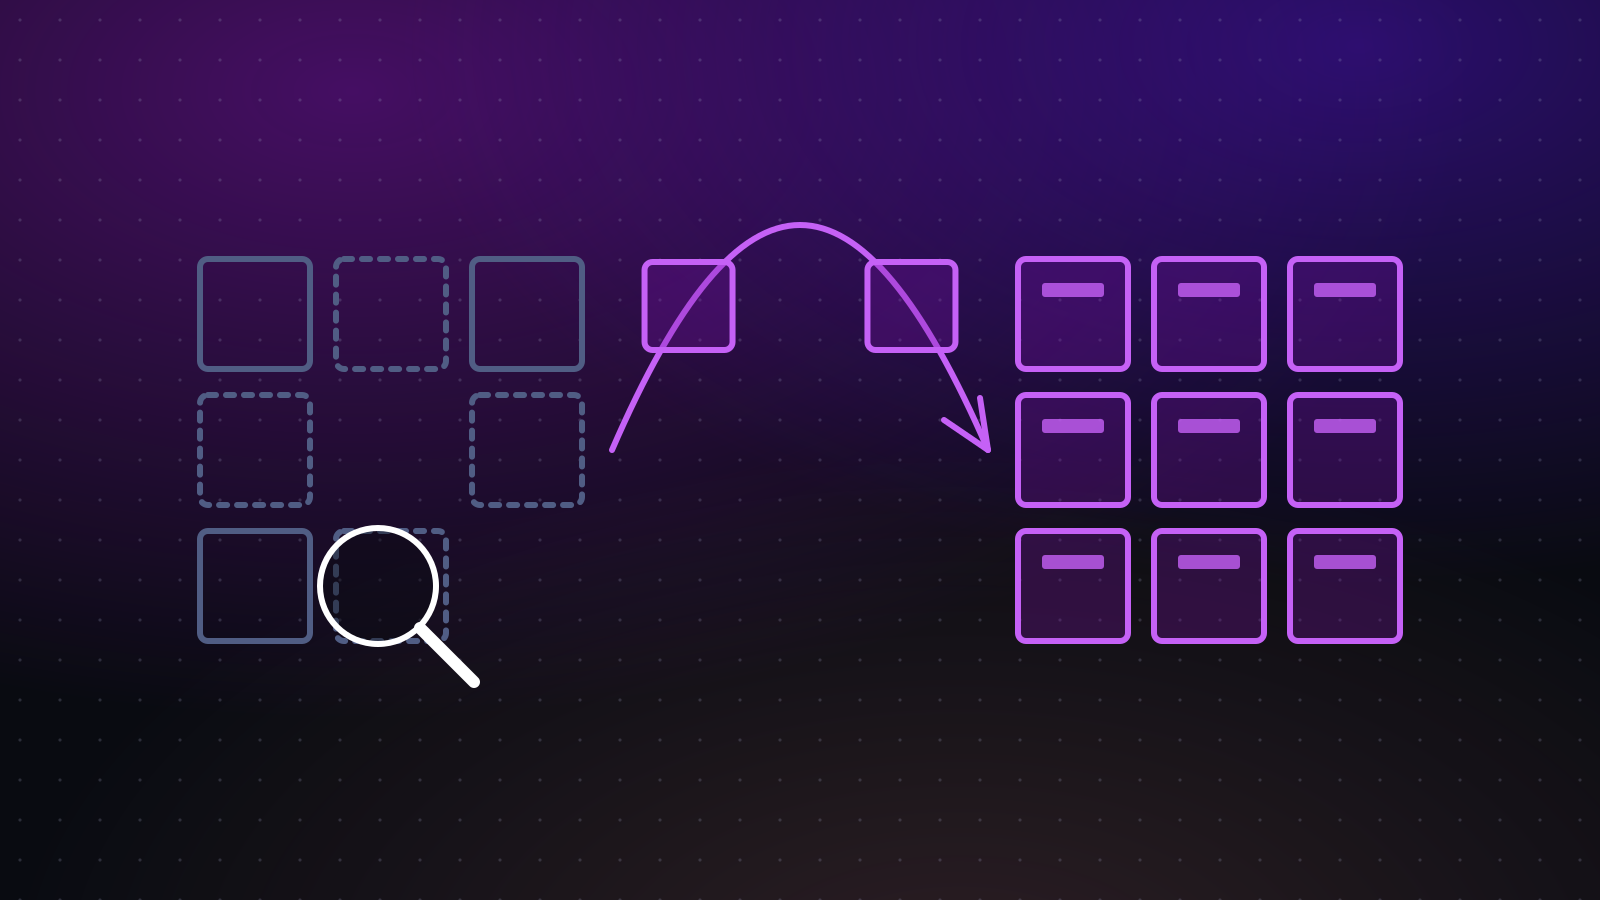
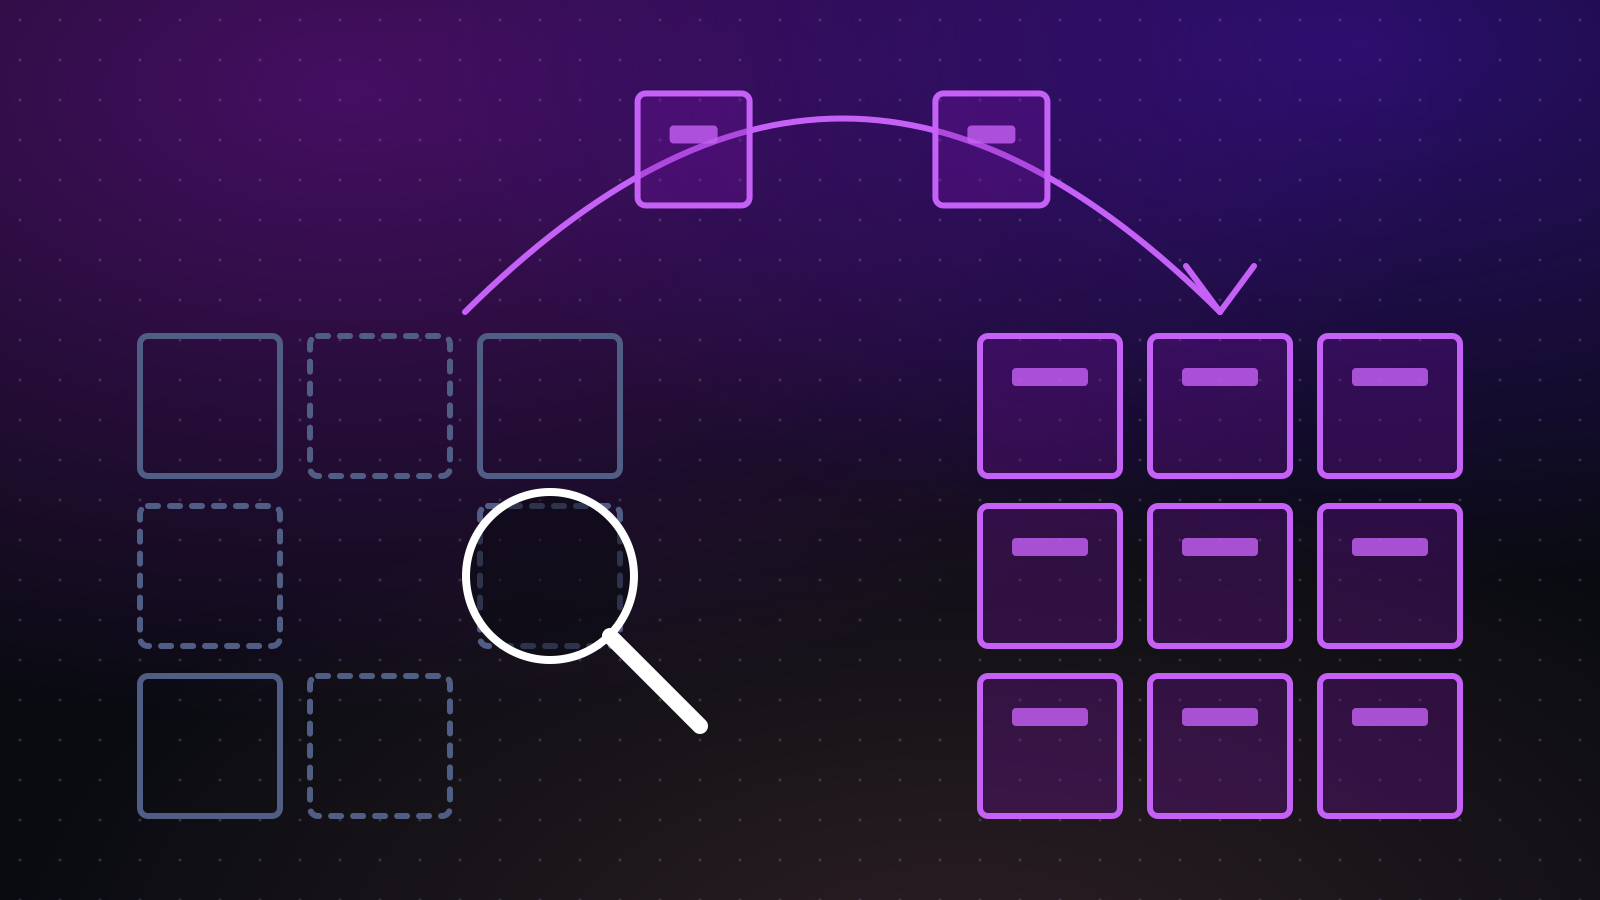
fix: redraw the migration cover to fill the frame
The clusters sat in the middle third and left the bottom empty. They
are larger now and anchored low, and the arc spans from the top of one
cluster to the top of the other so it uses the upper half, with the two
boxes riding a wide curve instead of bunching at a spike.

diff --git a/scripts/generate-blog-covers.ts b/scripts/generate-blog-covers.ts
@@ -248,11 +248,15 @@ function jobSearch() {
   return wrap(s)
 }
 
-/** Boxes leaving a faded cluster on the left for a lit one on the right. */
+/**
+ * Boxes leaving a faded cluster on the left for a lit one on the right, along
+ * an arc that fills the top of the frame; a magnifying glass on the old side.
+ */
 function awsToCloudflare() {
   let s = ""
-  const box = 110
-  const gap = 26
+  const box = 140
+  const gap = 30
+  const clusterSize = 3 * box + 2 * gap
   const cluster = (x0: number, y0: number, lit: boolean, missing: number[] = []) => {
     for (let r = 0; r < 3; r++) {
       for (let c = 0; c < 3; c++) {
@@ -260,23 +264,24 @@ function awsToCloudflare() {
         if (missing.includes(idx)) continue
         const x = x0 + c * (box + gap)
         const y = y0 + r * (box + gap)
-        s += rect(x, y, box, box, lit ? `fill="${PURPLE}" fill-opacity="0.3" stroke="${PURPLE_LIGHT}"` : `stroke="${GREY_DIM}" stroke-dasharray="${idx % 2 ? "8 10" : "none"}"`)
-        if (lit) s += `<rect x="${x + 24}" y="${y + 24}" width="${box - 48}" height="14" rx="3" fill="${PURPLE_LIGHT}" fill-opacity="0.8" stroke="none"/>`
+        s += rect(x, y, box, box, lit ? `fill="${PURPLE}" fill-opacity="0.3" stroke="${PURPLE_LIGHT}"` : `stroke="${GREY_DIM}" stroke-dasharray="${idx % 2 ? "10 12" : "none"}"`)
+        if (lit) s += `<rect x="${x + 32}" y="${y + 32}" width="${box - 64}" height="18" rx="4" fill="${PURPLE_LIGHT}" fill-opacity="0.8" stroke="none"/>`
       }
     }
   }
-  const leftX = 200
-  const rightX = W - 200 - 3 * box - 2 * gap
-  const y0 = (H - (3 * box + 2 * gap)) / 2
+  // Clusters sit low so the arc has the top of the frame
+  const y0 = H - clusterSize - 84
+  const leftX = 140
+  const rightX = W - 140 - clusterSize
   cluster(leftX, y0, false, [4, 8])
   cluster(rightX, y0, true)
-  // one arc from cluster to cluster, with two boxes riding it
-  const midY = H / 2
-  const lx = leftX + 3 * box + 2 * gap
-  const p0 = { x: lx + 30, y: midY }
-  const p1 = { x: lx + 160, y: midY - 300 }
-  const p2 = { x: rightX - 160, y: midY - 300 }
-  const p3 = { x: rightX - 30, y: midY }
+
+  // One wide arc from the top of one cluster to the top of the other, two
+  // boxes riding it. The control points put the peak near y = 110.
+  const p0 = { x: leftX + clusterSize / 2 + box / 2 + gap / 2, y: y0 - 24 }
+  const p1 = { x: p0.x + 260, y: 54 }
+  const p3 = { x: rightX + clusterSize / 2, y: y0 - 24 }
+  const p2 = { x: p3.x - 260, y: 54 }
   const bez = (t: number) => {
     const mt = 1 - t
     return {
@@ -285,16 +290,18 @@ function awsToCloudflare() {
     }
   }
   s += `<path d="M${p0.x} ${p0.y} C ${p1.x} ${p1.y}, ${p2.x} ${p2.y}, ${p3.x} ${p3.y}" stroke="${PURPLE_LIGHT}"/>`
-  s += `<path d="M${p3.x - 44} ${p3.y - 30} L${p3.x} ${p3.y} L${p3.x - 8} ${p3.y - 52}" stroke="${PURPLE_LIGHT}"/>`
-  ;[0.2, 0.8].forEach((t) => {
+  s += `<path d="M${p3.x - 34} ${p3.y - 46} L${p3.x} ${p3.y} L${p3.x + 34} ${p3.y - 46}" stroke="${PURPLE_LIGHT}"/>`
+  ;[0.3, 0.7].forEach((t) => {
     const c = bez(t)
-    s += rect(c.x - 44, c.y - 44, 88, 88, `fill="${PURPLE}" fill-opacity="0.3" stroke="${PURPLE_LIGHT}"`)
+    s += rect(c.x - 56, c.y - 56, 112, 112, `fill="${PURPLE}" fill-opacity="0.3" stroke="${PURPLE_LIGHT}"`)
+    s += `<rect x="${c.x - 24}" y="${c.y - 24}" width="48" height="18" rx="4" fill="${PURPLE_LIGHT}" fill-opacity="0.8" stroke="none"/>`
   })
-  // a magnifying glass over the left cluster: the digging
-  const gx = leftX + box + gap / 2 + box / 2
-  const gy = y0 + 2 * (box + gap) + box / 2
-  s += `<circle cx="${gx}" cy="${gy}" r="58" stroke="${WHITE}" fill="${NAVY}" fill-opacity="0.4"/>`
-  s += line(gx + 42, gy + 42, gx + 96, gy + 96, `stroke="${WHITE}" stroke-width="12"`)
+
+  // The magnifying glass over the gap in the old cluster: the digging
+  const gx = leftX + 2 * (box + gap) + box / 2
+  const gy = y0 + (box + gap) + box / 2
+  s += `<circle cx="${gx}" cy="${gy}" r="84" stroke="${WHITE}" stroke-width="8" fill="${NAVY}" fill-opacity="0.5"/>`
+  s += line(gx + 60, gy + 60, gx + 150, gy + 150, `stroke="${WHITE}" stroke-width="16"`)
   return wrap(s)
 }
 
